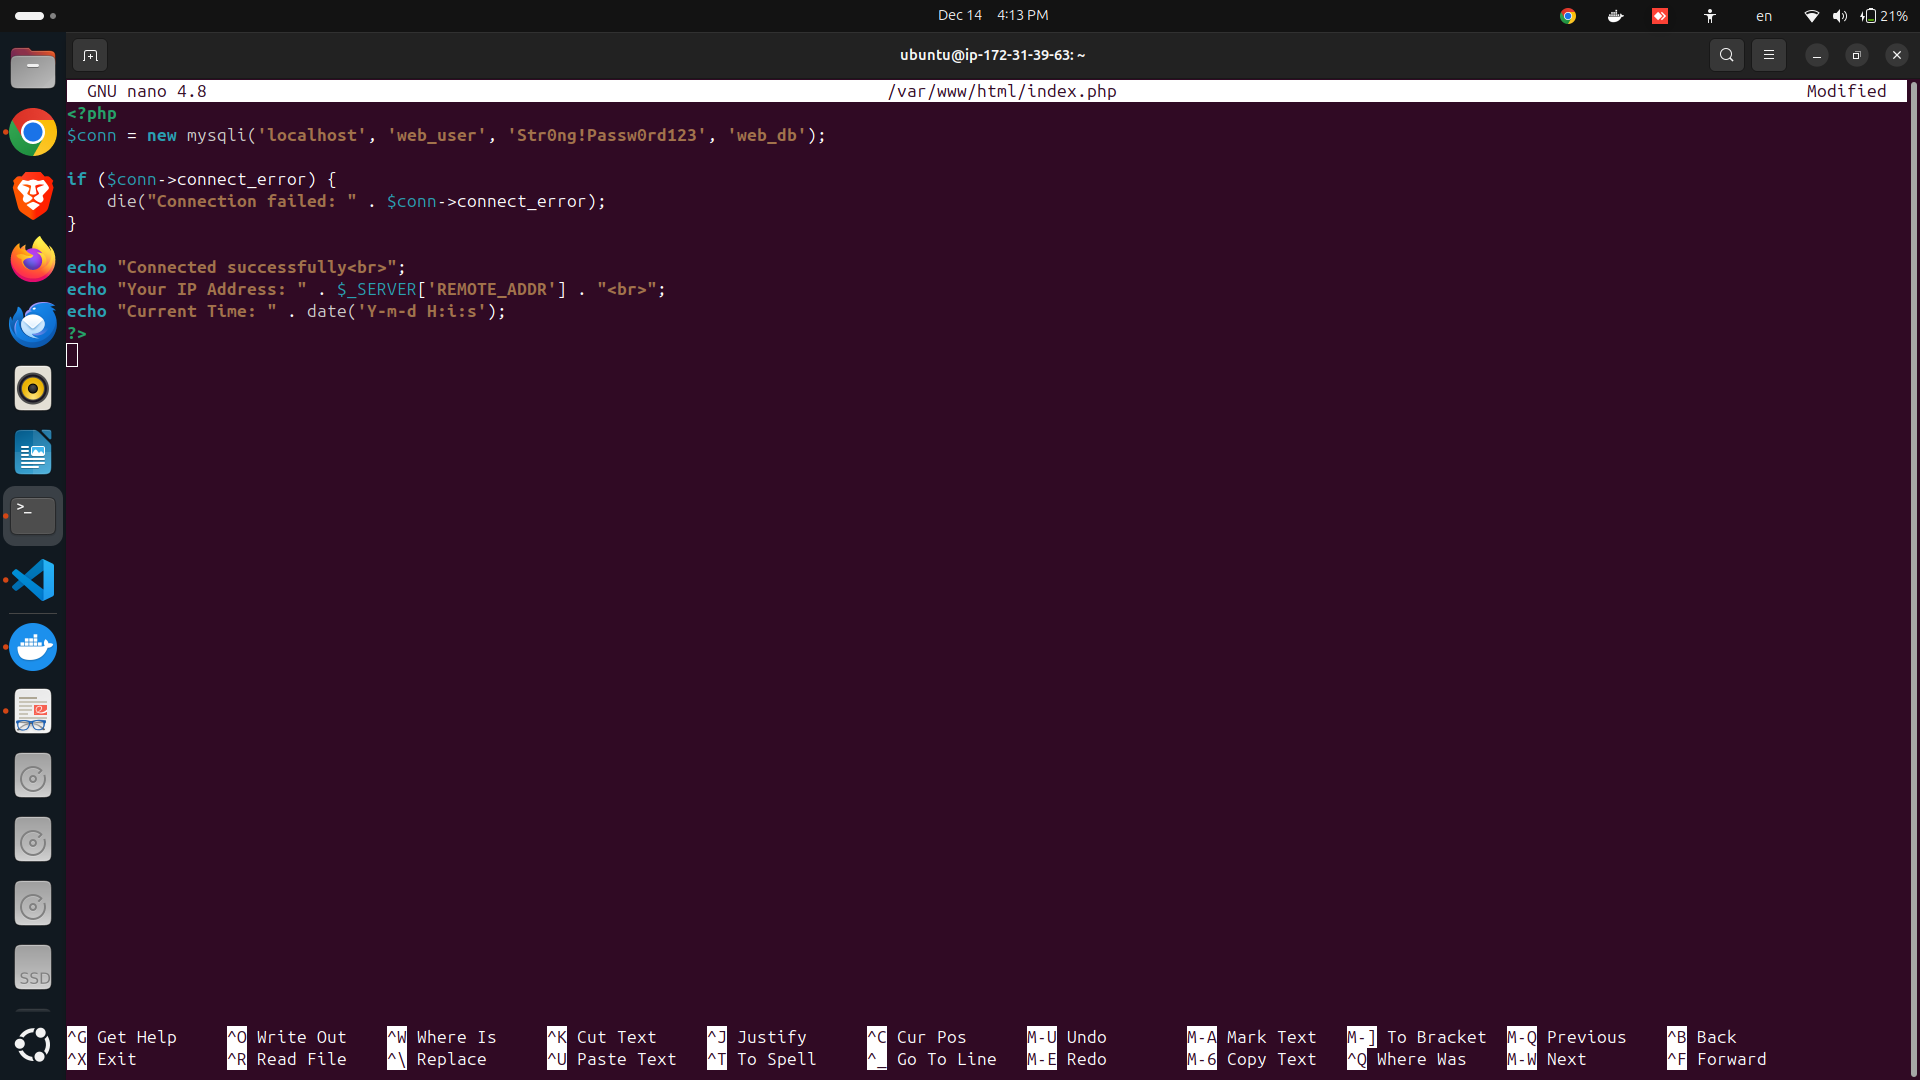
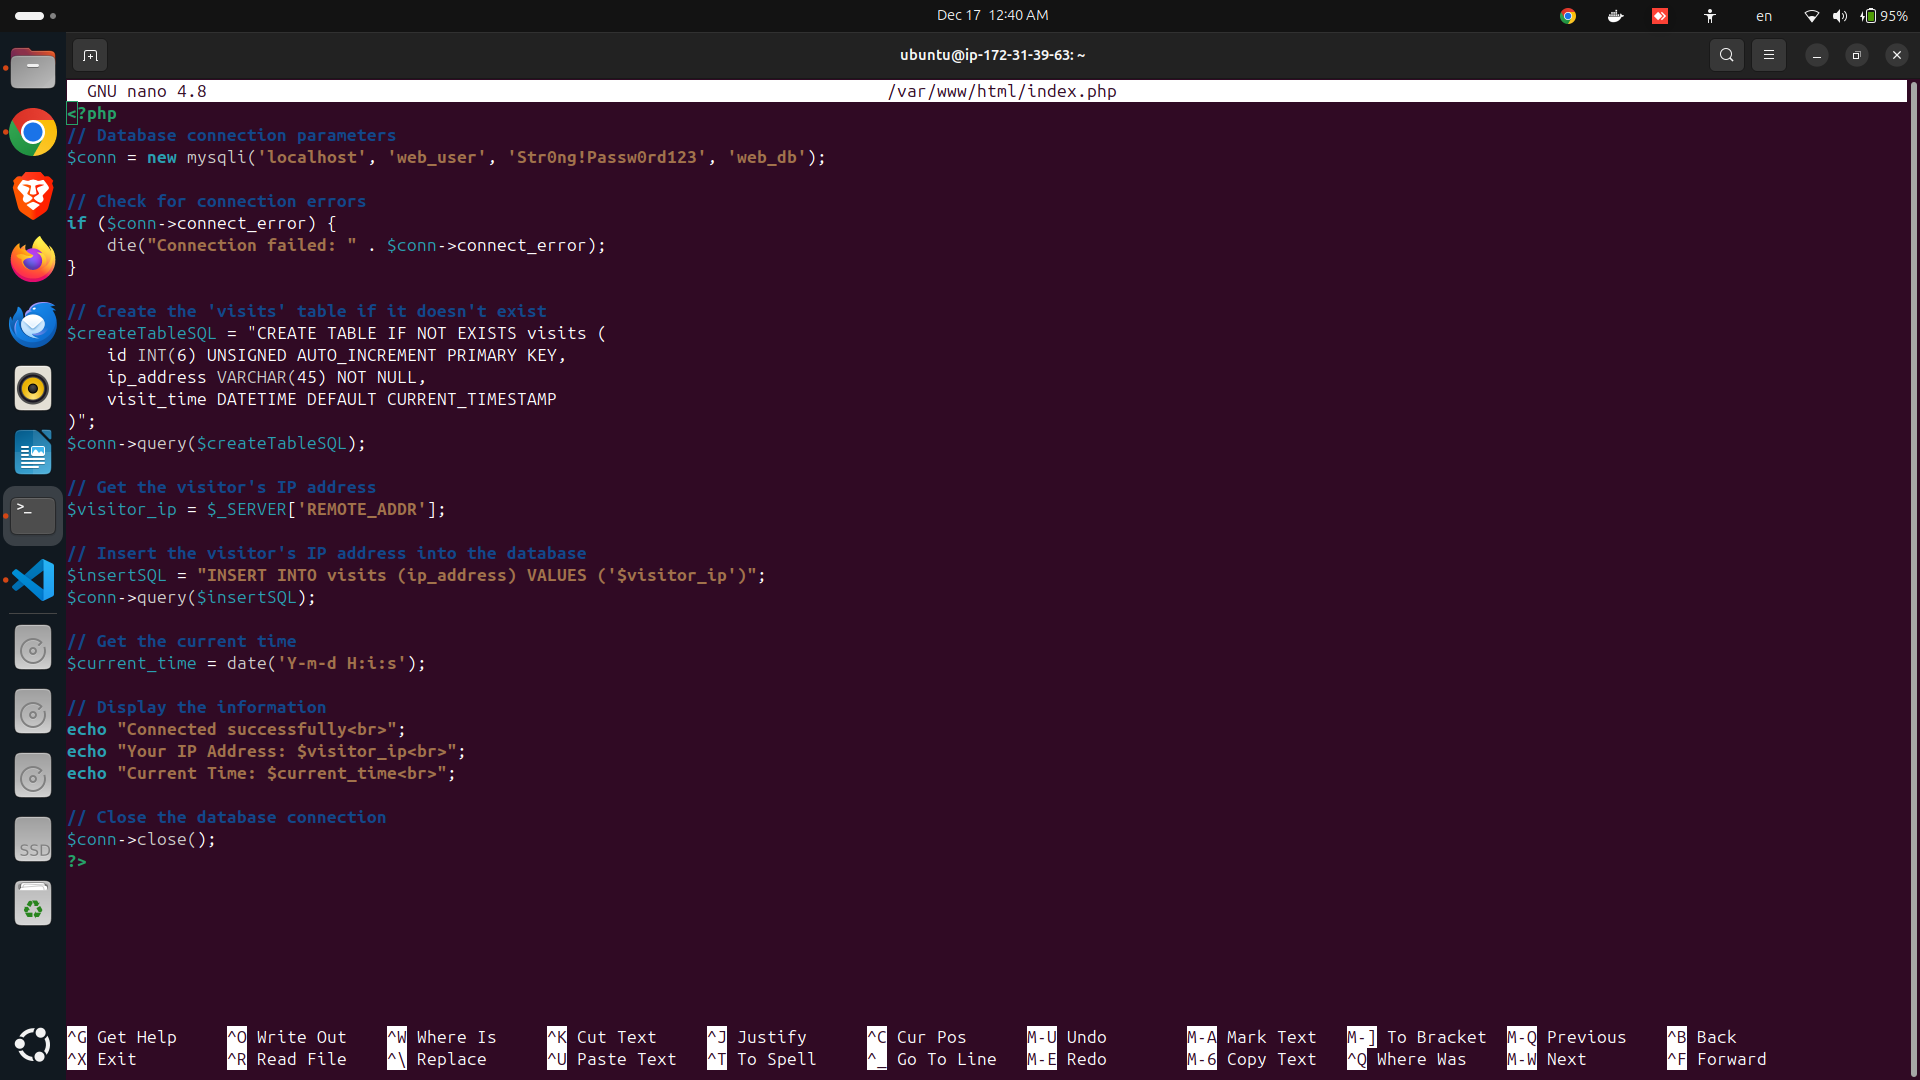
`Update README.md and index.php with database verification and connection improvements`

diff --git a/index.php b/index.php
@@ -1,11 +1,35 @@
 <?php
-$conn = new mysqli('localhost', 'web_user', 'StrongPassword123', 'web_db');
+// Database connection parameters
+$conn = new mysqli('localhost', 'web_user', 'Str0ng!Passw0rd123', 'web_db');
 
+// Check for connection errors
 if ($conn->connect_error) {
     die("Connection failed: " . $conn->connect_error);
 }
 
+// Create the 'visits' table if it doesn't exist
+$createTableSQL = "CREATE TABLE IF NOT EXISTS visits (
+    id INT(6) UNSIGNED AUTO_INCREMENT PRIMARY KEY,
+    ip_address VARCHAR(45) NOT NULL,
+    visit_time DATETIME DEFAULT CURRENT_TIMESTAMP
+)";
+$conn->query($createTableSQL);
+
+// Get the visitor's IP address
+$visitor_ip = $_SERVER['REMOTE_ADDR'];
+
+// Insert the visitor's IP address into the database
+$insertSQL = "INSERT INTO visits (ip_address) VALUES ('$visitor_ip')";
+$conn->query($insertSQL);
+
+// Get the current time
+$current_time = date('Y-m-d H:i:s');
+
+// Display the information
 echo "Connected successfully<br>";
-echo "Your IP Address: " . $_SERVER['REMOTE_ADDR'] . "<br>";
-echo "Current Time: " . date('Y-m-d H:i:s');
+echo "Your IP Address: $visitor_ip<br>";
+echo "Current Time: $current_time<br>";
+
+// Close the database connection
+$conn->close();
 ?>

diff --git a/README.md b/README.md
@@ -216,6 +216,15 @@ Test the page again: `http://<instance-public-ip>/index.php`.
 
 ![test changes](images/20.png)
 
+  **Verify Database Entries:**
+  ```sql
+   USE web_db;
+   SELECT * FROM visits;
+  ```
+
+   ![Text](images/37.png)
+
+
 ## Step 4: Make the Website Publicly Accessible
 1. Confirm that your security group allows HTTP traffic.
 2. Ensure the public IP or domain points correctly to the instance.
